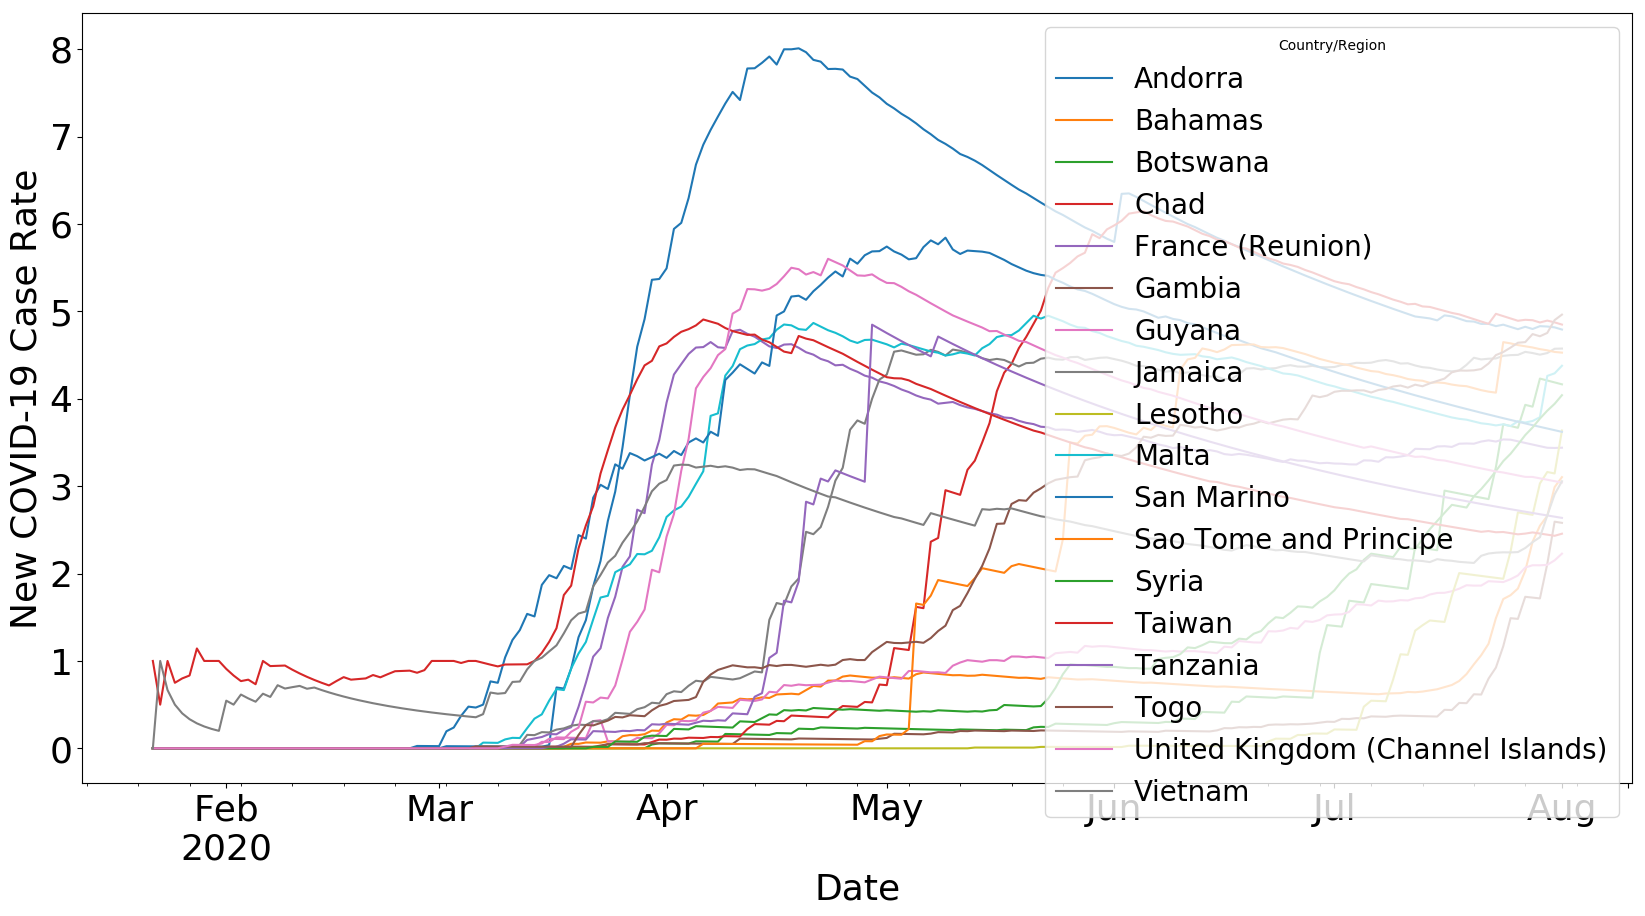
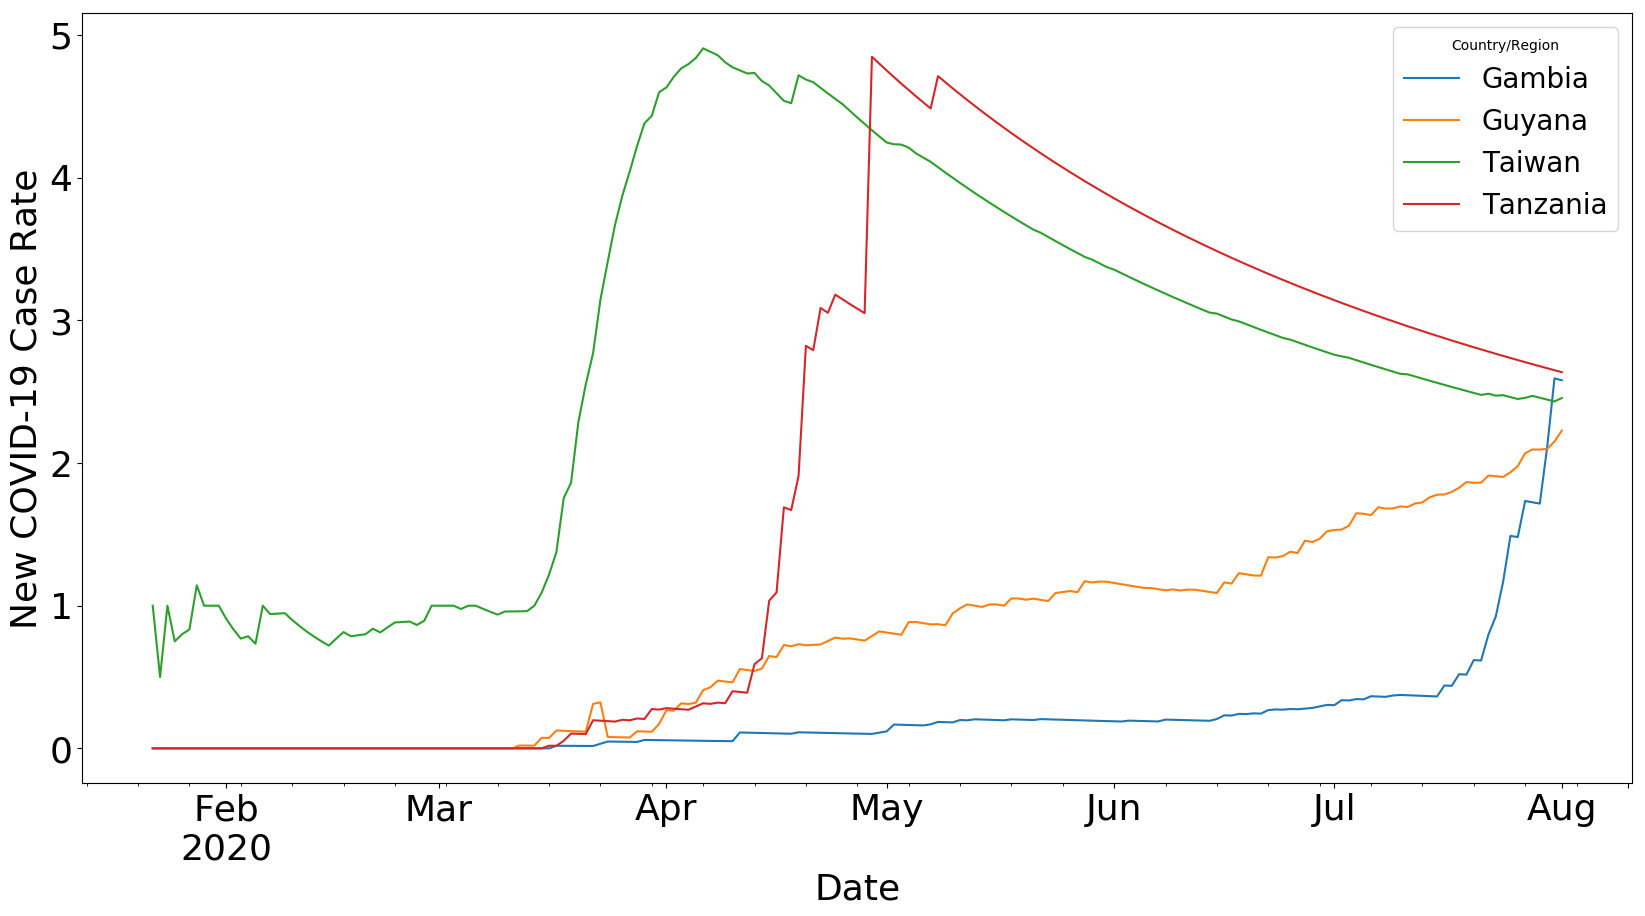
update

diff --git a/covid19_analysis.py b/covid19_analysis.py
@@ -48,11 +48,13 @@ PLOT_Countries = {
                        'Mauritius','San Marino','Malaysia']
     },   
     "Case 2"  : {
-	"fname" : "tw_flight",
-	"countries" : ['Canada', 'US', 'Macau, China', 'Hong Kong, China', 'China', 'Japan',
-			'Philippines', 'Vietnam', 'Thailand', 'United Arab Emirates', 'Korea, South',
-			'Malaysia', 'Singapore', 'Cambodia', 'Indonesia', 'Netherlands', 'France', 'United Kingdom']
-    },
+        "fname" : "tw_flight",
+        "countries" : ['Canada', 'US', 'Macau, China', 'Hong Kong, China', 
+                       'China', 'Japan', 'Philippines', 'Vietnam', 'Thailand', 
+                       'United Arab Emirates', 'Korea, South', 'Malaysia', 
+                       'Singapore', 'Cambodia', 'Indonesia', 'Netherlands', 
+                       'France', 'United Kingdom']  
+    }, 
 }
 
 # confirmed cases
@@ -299,7 +301,7 @@ plt.close(fig)
 
 to_show = []
 for index, row in T.iterrows():
-  if A.at[index,T.columns[len(T.columns)-1]] < 5 and df1.at[index,T.columns[len(T.columns)-1]] > 400:
+  if A.at[index,T.columns[len(T.columns)-1]] < 3 and df1.at[index,T.columns[len(T.columns)-1]] > 400:
     to_show.append(T.at[index,T.columns[0]])
 
 plot = T2.plot(ylim=(0,120),figsize=(20,10),logy=False,fontsize=26,y=to_show)
